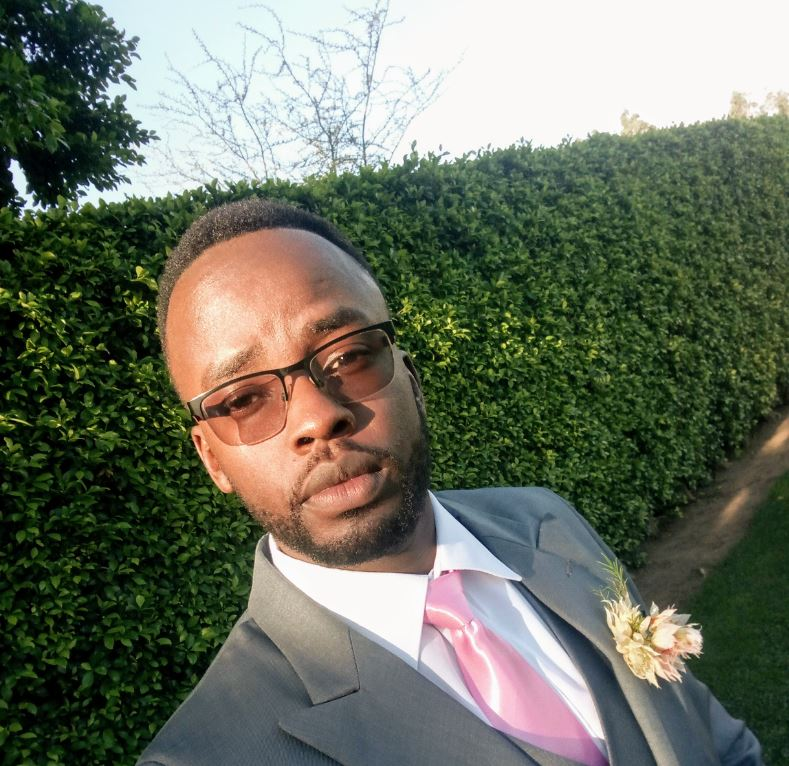
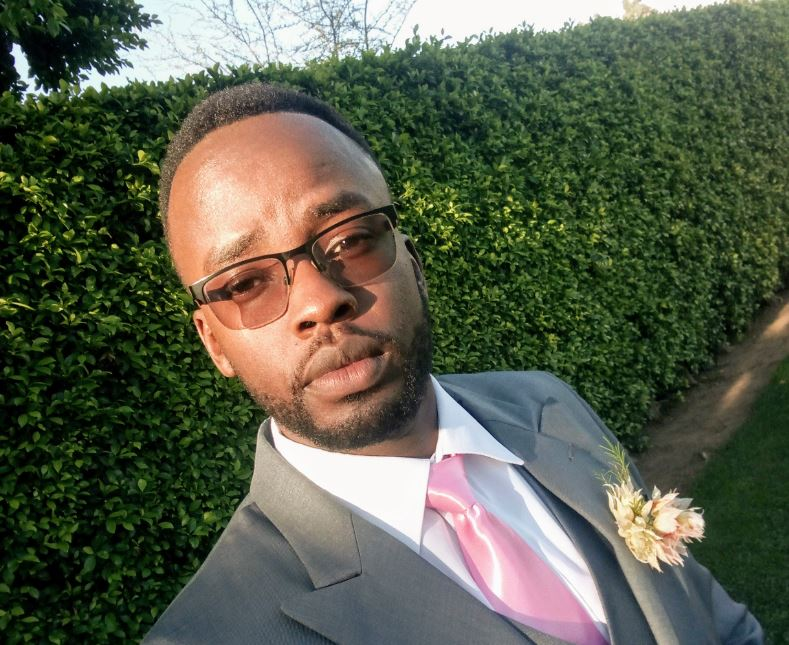
3rd commit

diff --git a/index.html b/index.html
@@ -108,11 +108,11 @@
       <!-- Landing Index-->
       <section class="resume-sectionn">
         <div class="resume-section-content">
-          <div class="containerr" id="landingg">
+          <div class="containerr" id="landing">
             <div id="index">
-              <h2 class="imgLandingCaption">
+              <!--<h2 class="imgLandingCaption">
                 Let passion, drive your profession.
-              </h2>
+              </h2>-->
               <img
                 src="./assets/images/welcome/index3-cover.jpg"
                 class="img-fluid img-thumbnaill imgLandingCover"
@@ -320,7 +320,7 @@
                 <div class="card cardProject">
                   <img
                     class="card-img-top"
-                    src="./assets/images/projects/project_adamsapple.jpg"
+                    src="./assets/images/projects/project_adamsapple.png"
                     alt="Card image cap"
                   />
                   <div class="card-body">
@@ -358,7 +358,7 @@
                 <div class="card cardProject">
                   <img
                     class="card-img-top"
-                    src="./assets/images/projects/project_weathercentre.jpg"
+                    src="./assets/images/projects/project_weathercentre.png"
                     alt="Card image cap"
                   />
                   <div class="card-body">

diff --git a/css/custom.css b/css/custom.css
@@ -27,11 +27,9 @@
 }
 
 .imgLandingCover {
-  /*width: 1310px;*/
+  /*width: 1310px;*/ /*add if using landing centre image*/
   width: 100%;
-  margin-top: -208px;
-  filter: grayscale(100%);
-  opacity: 90%;
+  /*filter: grayscale(100%);*/
 }
 
 .imgLandingCaption {
